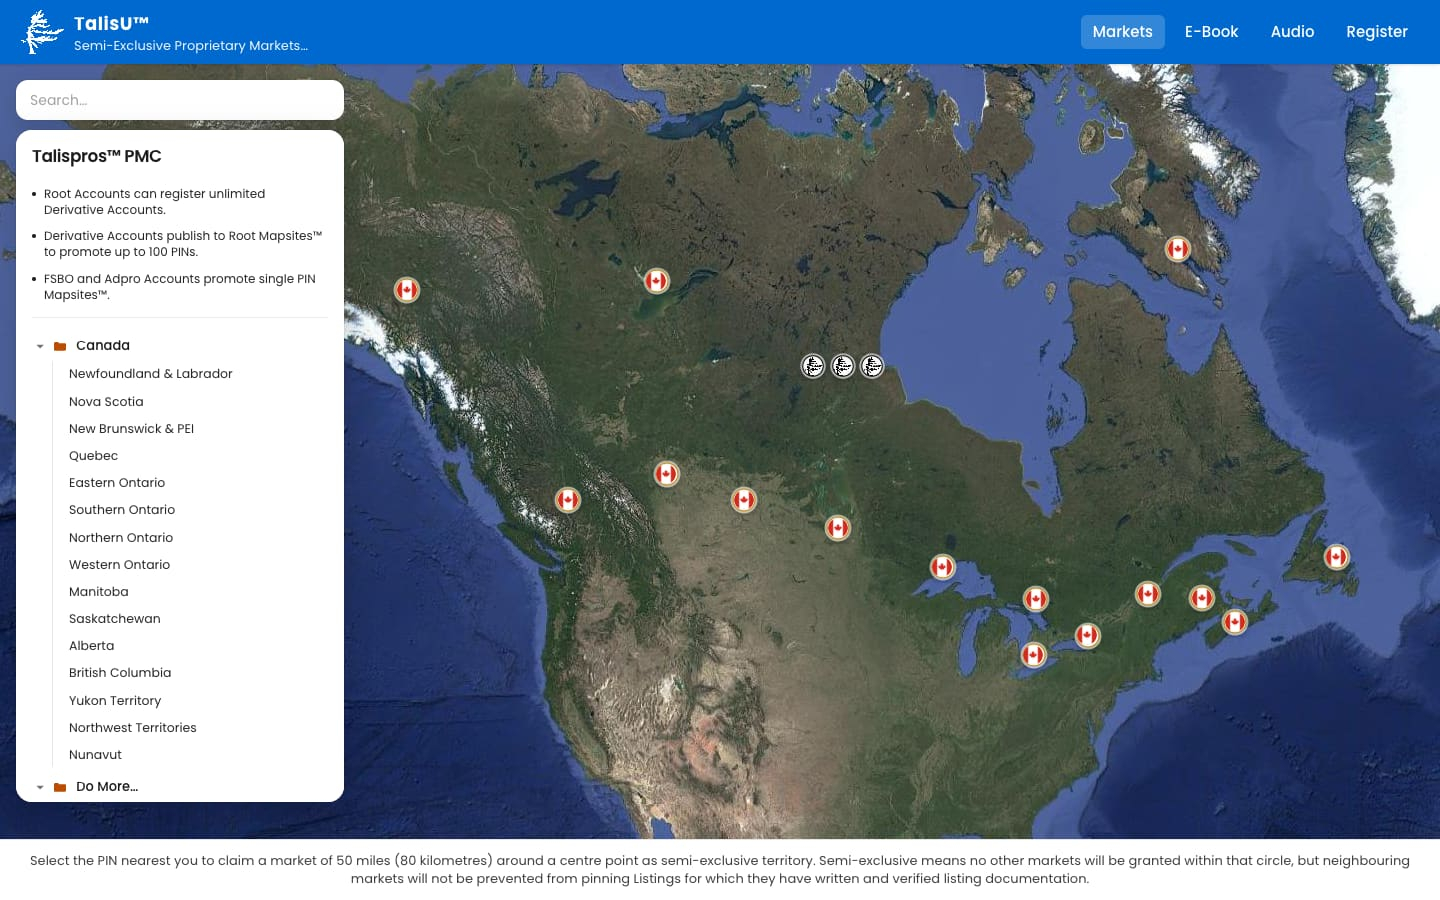
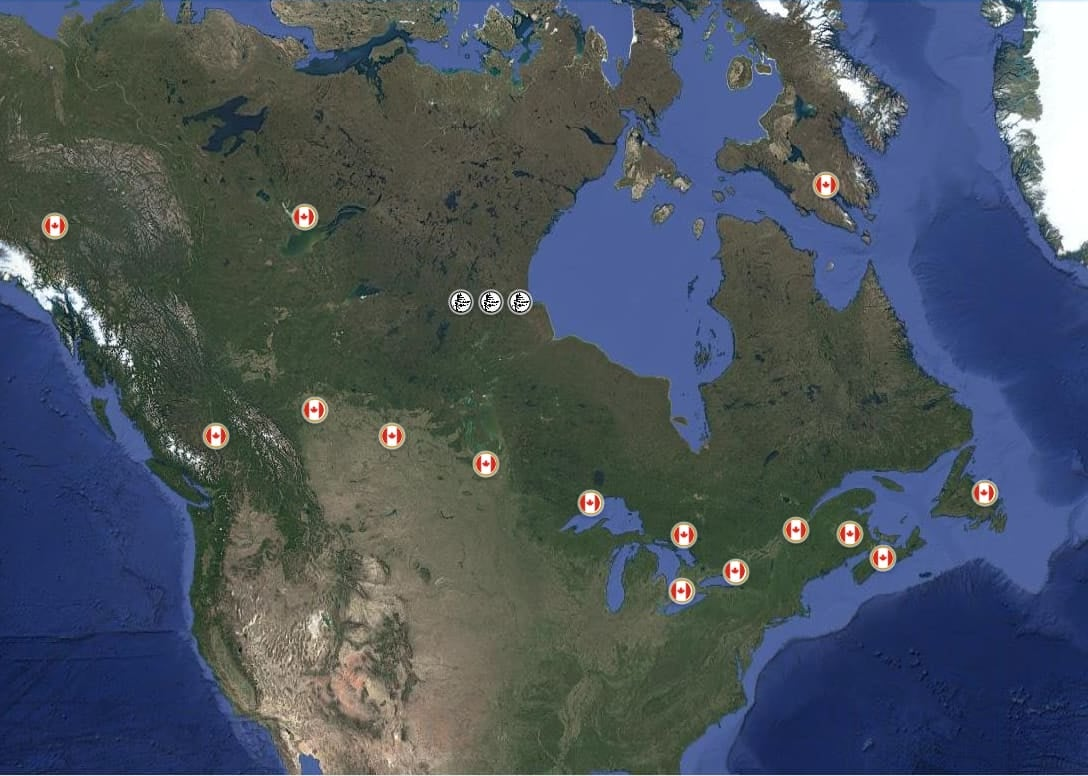
fix(start): right side map-only full height, no chrome

diff --git a/components/talispros/TalisprosHomeShowcase.tsx b/components/talispros/TalisprosHomeShowcase.tsx
@@ -1,47 +1,25 @@
 import Image from "next/image";
 
 /**
- * Static /start preview for the System Demo Markets screen. Keep this as an
- * image rather than mounting the map so the right section cannot pan, zoom, or
- * trigger navigation.
+ * Static /start right column: Markets map only (CA flag / tree pins), full
+ * height of the gate. No mkts navbar, sidebar, title, cards, or caption —
+ * image cannot pan, zoom, or navigate.
  */
 export default function TalisprosHomeShowcase() {
   return (
     <aside
-      className="flex min-h-0 flex-1 flex-col justify-center bg-[#f2f2f0] px-5 py-8 text-neutral-900 sm:px-8 sm:py-10 lg:border-l lg:border-[#dedede] lg:px-10 lg:py-12"
-      aria-label="Talispros™ System Demo Markets map preview"
+      className="relative min-h-[42vh] w-full flex-1 overflow-hidden bg-neutral-200 lg:min-h-0 lg:h-full lg:border-l lg:border-[#dedede]"
+      aria-label="Talispros™ Markets map preview"
     >
-      <div className="mx-auto flex w-full max-w-[62rem] flex-col">
-        <div className="mb-4 sm:mb-5">
-          <p className="text-[10px] font-medium uppercase tracking-[0.16em] text-neutral-500 sm:text-[11px]">
-            System demo
-          </p>
-          <h2 className="mt-1 text-xl font-semibold leading-snug tracking-tight text-neutral-900 sm:text-2xl">
-            Markets
-          </h2>
-          <p className="mt-1 text-xs font-medium tracking-wide text-neutral-500 sm:text-sm">
-            /talisu/mkts
-          </p>
-        </div>
-
-        <figure className="overflow-hidden border border-[#dedede] bg-white shadow-[0_1px_0_rgba(0,0,0,0.04)]">
-          <div className="relative aspect-[8/5] w-full bg-neutral-200">
-            <Image
-              src="/assets/home-demo/01-talismaps-mkts.jpg"
-              alt="Static Talismaps™ Markets map demo with Canada pins"
-              fill
-              sizes="(max-width: 1023px) 100vw, calc(100vw - 22rem)"
-              className="pointer-events-none select-none object-cover"
-              draggable={false}
-              priority
-            />
-          </div>
-          <figcaption className="border-t border-[#ececec] px-3 py-2 text-[11px] leading-snug text-neutral-500 sm:px-4 sm:py-2.5 sm:text-xs">
-            Static preview of the Markets map. Open System Demo on the left to
-            explore the live experience.
-          </figcaption>
-        </figure>
-      </div>
+      <Image
+        src="/assets/home-demo/01-talismaps-mkts.jpg"
+        alt="Static Talismaps™ Markets map with Canada pins"
+        fill
+        sizes="(max-width: 1023px) 100vw, calc(100vw - 22rem)"
+        className="pointer-events-none select-none object-cover object-center"
+        draggable={false}
+        priority
+      />
     </aside>
   );
 }

diff --git a/__tests__/home-fast-code-entry.test.ts b/__tests__/home-fast-code-entry.test.ts
@@ -88,7 +88,7 @@ describe("homepage FAST Code → claimed Mapsite™", () => {
     expect(TALISPROS_HOME_SYSTEM_DEMO_HREF).toBe("/talisu/mkts");
   });
 
-  it("keeps /start as a clean centered gate without the showcase rail", () => {
+  it("keeps /start right column as map-only full-height preview", () => {
     const gatePage = readFileSync(
       join(root, "components/talispros/TalisprosGatePage.tsx"),
       "utf8",
@@ -104,9 +104,12 @@ describe("homepage FAST Code → claimed Mapsite™", () => {
     expect(gatePage).toContain("lg:grid-cols-");
     expect(gatePage).toContain("min-h-dvh");
     expect(showcase).toContain("/assets/home-demo/01-talismaps-mkts.jpg");
-    expect(showcase).toContain("/talisu/mkts");
+    expect(showcase).toContain("object-cover");
+    expect(showcase).toContain("lg:h-full");
     expect(showcase).toContain("pointer-events-none");
     expect(showcase).toContain("draggable={false}");
+    expect(showcase).not.toContain("System demo");
+    expect(showcase).not.toContain("figcaption");
     expect(showcase).not.toContain("<Link");
     expect(showcase).not.toContain("onClick");
   });

diff --git a/components/talispros/TalisprosGatePage.tsx b/components/talispros/TalisprosGatePage.tsx
@@ -3,8 +3,9 @@ import TalisprosHomeShowcase from "@/components/talispros/TalisprosHomeShowcase"
 import TalisprosSamCartReturnBanner from "@/components/talispros/TalisprosSamCartReturnBanner";
 
 /**
- * /start gate: Login + System Demo on the left; a static Markets map preview
- * on the right. SamCart payment success returns here and keeps the same gate flow.
+ * /start gate: Login + System Demo on the left; map-only Markets preview
+ * (full-height, no chrome) on the right. SamCart payment success returns here
+ * and keeps the same gate flow.
  */
 export default function TalisprosGatePage() {
   return (
